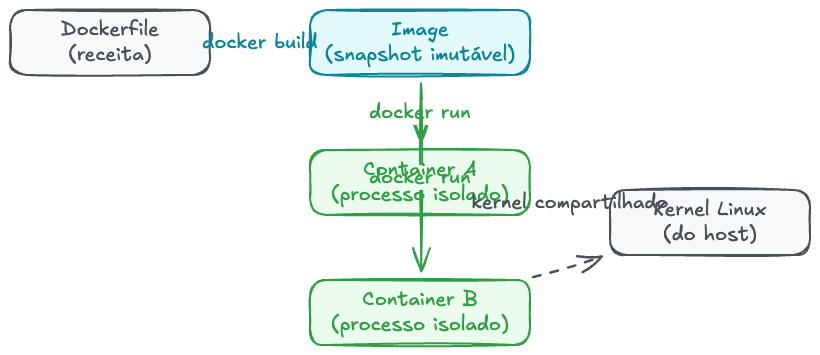
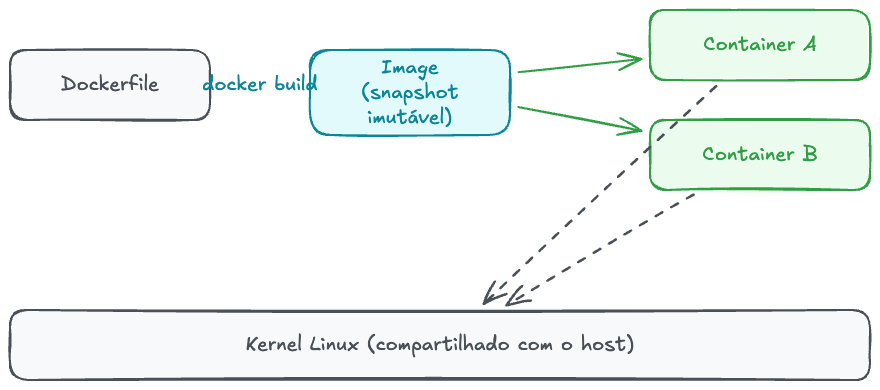
fix(slides+meetings): unbreak diagrams, swap emoji compare for ref image, add Export menu
Diagrams
- docker-container: simplified the fan-out from Image to Containers A and
  B. Pulled "docker run" labels off the arrows (the build label tells the
  story). Kernel bar runs the full width below, dashed lines to it no
  longer cross.
- works-on-my-machine: turned the four cause boxes into a horizontal row
  fanning down from "Sobe?". No overlapping labels.

Slides
- Beat 3 "Container vs VM" compare card with emojis got replaced by the
  canonical Containers-vs-VMs reference image (saved under /diagrams/
  deploy-journey/external/). The compare card had two flaws: emojis
  violate the "lucide-react icons, no emojis" rule in CLAUDE.md, and the
  comparison did not show the layered architecture students need to see.
- The remaining compare card (Beat 8 EC2 vs ECS) loses its emojis too; a
  monospace sub-label replaces them.
- Print-ready CSS in the slides HTML: when opened with ?print=1 every
  slide stacks one-per-page and window.print() fires after load. The CSS
  forces dark background through and disables animations during print.

Meetings page
- Replaced the standalone PrintButton with an ExportMenu dropdown shown
  on both Study and Live tabs. Two options inside:
  - Slides (PDF): opens /slides/{slug}.html?print=1 in a new tab
  - Material (PDF): the existing window.print() flow
- Click-outside and Escape both close the menu.

diff --git a/apps/web/components/admin/meetings/lesson-view.tsx b/apps/web/components/admin/meetings/lesson-view.tsx
@@ -1,9 +1,9 @@
 'use client';
 
-import { useState } from 'react';
+import { useEffect, useRef, useState } from 'react';
 import Link from 'next/link';
 import { clsx } from 'clsx';
-import { ArrowLeft, BookOpen, Presentation, Printer, Radio } from 'lucide-react';
+import { ArrowLeft, BookOpen, Download, FileText, Presentation, Radio } from 'lucide-react';
 import type { Lesson } from './lesson-types';
 import { Eyebrow } from '../../ui/eyebrow';
 import { StudyMode } from './study-mode';
@@ -43,7 +43,7 @@ export function LessonView({ lesson }: { lesson: Lesson }) {
           <div className="flex items-stretch gap-2">
             <ModeToggle mode={mode} onChange={setMode} />
             {lesson.slidesUrl && <SlidesButton url={lesson.slidesUrl} />}
-            {mode === 'study' && <PrintButton />}
+            <ExportMenu lesson={lesson} />
           </div>
         </header>
 
@@ -85,26 +85,96 @@ function SlidesButton({ url }: { url: string }) {
   );
 }
 
-function PrintButton() {
+function ExportMenu({ lesson }: { lesson: Lesson }) {
+  const [open, setOpen] = useState(false);
+  const ref = useRef<HTMLDivElement>(null);
+
+  useEffect(() => {
+    if (!open) return;
+    const onClick = (e: MouseEvent) => {
+      if (ref.current && !ref.current.contains(e.target as Node)) setOpen(false);
+    };
+    const onKey = (e: KeyboardEvent) => {
+      if (e.key === 'Escape') setOpen(false);
+    };
+    document.addEventListener('mousedown', onClick);
+    document.addEventListener('keydown', onKey);
+    return () => {
+      document.removeEventListener('mousedown', onClick);
+      document.removeEventListener('keydown', onKey);
+    };
+  }, [open]);
+
   return (
-    <button
-      type="button"
-      onClick={() => window.print()}
-      className="inline-flex items-center gap-2 rounded-card border border-border-token bg-surface px-4 py-2.5 text-left transition-colors hover:border-border-strong hover:bg-surface-hover"
-      title="Gerar PDF dos 3 passes pra estudo offline"
-    >
-      <span className="inline-grid h-7 w-7 place-items-center rounded-full bg-bg-subtle text-fg-soft">
-        <Printer className="h-3.5 w-3.5" strokeWidth={1.8} />
-      </span>
-      <span className="block">
-        <span className="block font-sans text-sm font-semibold leading-none text-fg">
-          PDF
+    <div ref={ref} className="relative">
+      <button
+        type="button"
+        onClick={() => setOpen((o) => !o)}
+        className={clsx(
+          'inline-flex items-center gap-2 rounded-card border bg-surface px-4 py-2.5 text-left transition-colors',
+          open ? 'border-fg' : 'border-border-token hover:border-border-strong hover:bg-surface-hover',
+        )}
+        title="Exportar slides ou material em PDF"
+      >
+        <span className="inline-grid h-7 w-7 place-items-center rounded-full bg-bg-subtle text-fg-soft">
+          <Download className="h-3.5 w-3.5" strokeWidth={1.8} />
         </span>
-        <span className="mt-1 block font-mono text-[10px] uppercase tracking-eyebrow text-fg-faint">
-          os 3 passes
+        <span className="block">
+          <span className="block font-sans text-sm font-semibold leading-none text-fg">
+            Exportar
+          </span>
+          <span className="mt-1 block font-mono text-[10px] uppercase tracking-eyebrow text-fg-faint">
+            slides · material
+          </span>
         </span>
-      </span>
-    </button>
+      </button>
+
+      {open && (
+        <div className="absolute right-0 top-full z-40 mt-2 w-[260px] overflow-hidden rounded-card border border-border-token bg-surface shadow-lg">
+          {lesson.slidesUrl && (
+            <a
+              href={`${lesson.slidesUrl}?print=1`}
+              target="_blank"
+              rel="noopener noreferrer"
+              onClick={() => setOpen(false)}
+              className="flex items-start gap-3 border-b border-border-token px-4 py-3 transition-colors hover:bg-bg-subtle"
+            >
+              <span className="mt-0.5 inline-grid h-8 w-8 shrink-0 place-items-center rounded-full bg-bg-subtle text-fg-soft">
+                <Presentation className="h-4 w-4" strokeWidth={1.8} />
+              </span>
+              <span className="min-w-0 flex-1">
+                <span className="block font-sans text-sm font-semibold text-fg">
+                  Slides (PDF)
+                </span>
+                <span className="mt-0.5 block text-xs leading-snug text-fg-mute">
+                  Cada slide vira uma página, salva pelo print do navegador
+                </span>
+              </span>
+            </a>
+          )}
+          <button
+            type="button"
+            onClick={() => {
+              setOpen(false);
+              window.print();
+            }}
+            className="flex w-full items-start gap-3 px-4 py-3 text-left transition-colors hover:bg-bg-subtle"
+          >
+            <span className="mt-0.5 inline-grid h-8 w-8 shrink-0 place-items-center rounded-full bg-bg-subtle text-fg-soft">
+              <FileText className="h-4 w-4" strokeWidth={1.8} />
+            </span>
+            <span className="min-w-0 flex-1">
+              <span className="block font-sans text-sm font-semibold text-fg">
+                Material (PDF)
+              </span>
+              <span className="mt-0.5 block text-xs leading-snug text-fg-mute">
+                Os 3 passes de cada beat pra estudo offline
+              </span>
+            </span>
+          </button>
+        </div>
+      )}
+    </div>
   );
 }
 

diff --git a/apps/web/public/slides/deploy-journey.html b/apps/web/public/slides/deploy-journey.html
@@ -54,6 +54,17 @@
   .code .com { color: #525252; font-style: italic; }
   .code .var { color: #60a5fa; }
   .code .ind { color: #525252; }
+
+  /* Print mode: all slides stack, one per page */
+  @media print {
+    @page { size: landscape; margin: 0; }
+    html, body { overflow: visible !important; height: auto !important; background: #0a0a0a !important; -webkit-print-color-adjust: exact; print-color-adjust: exact; }
+    .slide { display: flex !important; height: 100vh !important; width: 100vw !important; page-break-after: always; break-after: page; animation: none !important; }
+    .slide:last-child { page-break-after: avoid; }
+    .slide *, .slide *::before, .slide *::after { animation: none !important; transition: none !important; }
+    /* Hide live nav indicator */
+    body > div.fixed { display: none !important; }
+  }
 </style>
 </head>
 <body>
@@ -121,18 +132,11 @@ const slides = [
     title: 'Você roda <code class="mono text-cyan-400">docker run</code> no Mac.<br/>Seu colega roda no <span class="text-cyan-400">Linux</span>.<br/>Mesmo comportamento. Como?',
     subtitle: 'Container não é VM leve. Ele compartilha uma parte do host, e isola outra. Quais?',
     tags: ['container', 'imagem', 'namespace', 'cgroups', 'kernel'] },
-  { type: 'compare', group: 'containers', beat: 3,
-    title: 'Container vs VM',
-    columns: [
-      { title: 'Virtual Machine', emoji: '🖥', points: [
-        '~2-4GB de overhead', 'Boot em minutos', 'Emula hardware completo', 'BIOS + kernel próprio',
-      ]},
-      { title: 'Container', emoji: '📦', points: [
-        '~120MB de overhead', 'Sobe em segundos', 'Compartilha kernel do host', 'Só isola processo + filesystem',
-      ]},
-    ]},
+  { type: 'diagramFull', group: 'containers', beat: 3,
+    img: `${D}/external/containers-vs-vms.png`,
+    title: 'VM isola tudo, do kernel pra cima. Container compartilha o kernel do host.' },
   { type: 'diagram', group: 'containers', beat: 3,
-    caption: 'Dockerfile → Image → N containers, todos compartilhando o kernel do host.',
+    caption: 'Dockerfile vira Image, Image vira N containers. Todos rodam no mesmo kernel.',
     img: `${D}/docker-container.png` },
 
   { type: 'hook', group: 'containers', beat: 4,
@@ -218,11 +222,11 @@ const slides = [
   { type: 'compare', group: 'cloud', beat: 8,
     title: 'EC2 · ECS Fargate',
     columns: [
-      { title: 'EC2', emoji: '☁', points: [
-        'Você provisiona uma VM Linux', 'Instala Docker, faz docker run', 'Você gerencia: OS, patching, restart', 'GPU, hardware específico, controle total',
+      { title: 'EC2', sub: 'VM Linux', points: [
+        'Você provisiona uma VM Linux', 'Instala Docker, faz docker run', 'Você gerencia OS, patching, restart', 'GPU, hardware específico, controle total',
       ]},
-      { title: 'ECS Fargate', emoji: '⚡', points: [
-        'Define Task Definition + imagem ECR', 'AWS aloca compute automaticamente', 'AWS gerencia: OS, restart, scaling', 'Container = unidade de deploy',
+      { title: 'ECS Fargate', sub: 'compute gerenciado', points: [
+        'Define Task Definition + imagem ECR', 'AWS aloca compute automaticamente', 'AWS gerencia OS, restart, scaling', 'Container é a unidade de deploy',
       ]},
     ]},
   { type: 'diagram', group: 'cloud', beat: 8,
@@ -546,10 +550,10 @@ function r_compare(s) {
         <h2 class="display text-[44px] font-semibold text-white anim" style="border-left: 3px solid ${g.accent}; padding-left: 20px;">${s.title}</h2>
         <div class="grid grid-cols-2 gap-8 stagger">
           ${s.columns.map((col, i) => `
-            <div class="rounded-xl border border-neutral-800 bg-neutral-950/60 p-8 flex flex-col gap-5">
-              <div class="text-[48px]">${col.emoji}</div>
-              <h3 class="display text-[32px] font-bold" style="color: ${g.accent};">${col.title}</h3>
-              <ul class="flex flex-col gap-3 mt-2">
+            <div class="rounded-xl border border-neutral-800 bg-neutral-950/60 p-8 flex flex-col gap-3">
+              <h3 class="display text-[40px] font-bold leading-none" style="color: ${g.accent};">${col.title}</h3>
+              ${col.sub ? `<p class="mono text-[12px] uppercase tracking-[0.2em] text-neutral-500">${col.sub}</p>` : ''}
+              <ul class="flex flex-col gap-3 mt-3">
                 ${col.points.map(p => `<li class="display text-[18px] text-neutral-300 leading-snug">· ${p}</li>`).join('')}
               </ul>
             </div>
@@ -654,7 +658,17 @@ document.addEventListener('click', (e) => {
   show(current + 1);
 });
 
-show(0);
+// Print mode: triggered by ?print=1, shows all slides for the browser's print dialog
+const wantsPrint = new URLSearchParams(window.location.search).get('print') === '1';
+if (wantsPrint) {
+  allSlides.forEach(s => s.classList.add('active'));
+  // Wait for fonts + images, then print
+  window.addEventListener('load', () => {
+    setTimeout(() => window.print(), 1000);
+  });
+} else {
+  show(0);
+}
 </script>
 </body>
 </html>
